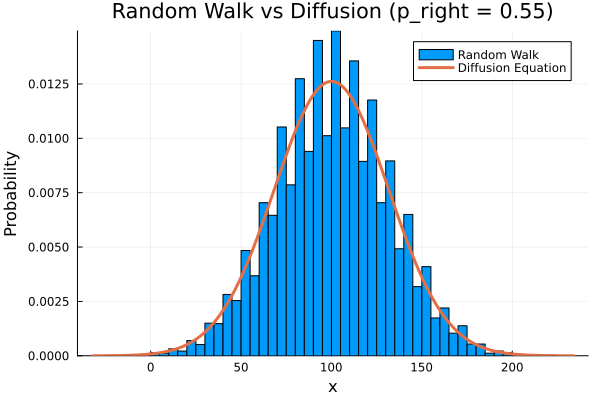
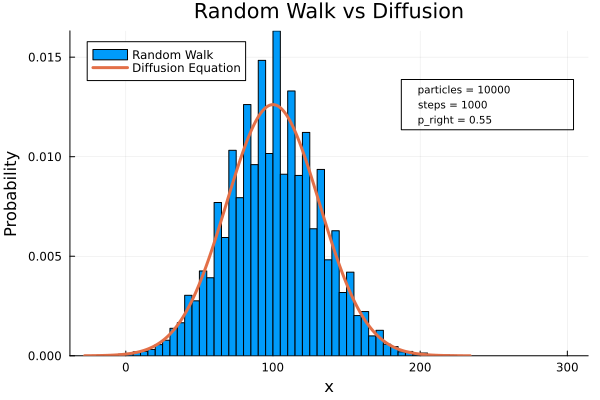
Update project files

Changed region(s): [[0.03, 0.0, 0.96, 0.93], [0.66, 0.09, 0.96, 0.33], [0.54, 0.96, 0.57, 0.99]]

diff --git a/README.md b/README.md
@@ -224,7 +224,7 @@ u (x, t) = \frac{1}{\sqrt{4 \pi D t}} \exp \Big( - \frac{(x - v t)^2}{4 D t} \Bi
 julia> using random_walk
 ```
 
-以下のコードは基本的には省略可だが、環境（WSL等）に応じて描画が上手くいかない場合のおまじない（描画バックエンドをGUIを使わないものに変更している）：
+以下のコードは基本的には省略可だが、環境（WSL等）に応じて描画が上手くいかない場合のおまじない（描画バックエンドをGUIを使わないものに変更している、今回はrandom_walk.jlの中で宣言しておいた）：
 ```julia
 julia> using Plots
 julia> gr()
@@ -233,8 +233,8 @@ julia> ENV["GKSwstype"] = "100"  # オフスクリーン描画
 
 最後に以下のコードを実行することで、シミュレーションとグラフによる比較ができる：
 ```julia
-julia> positions, p_right = simulate_rw(10000, 1000; p_right=0.55)  # 右に偏る確率が0.55のランダムウォーク
-julia> file = random_walk.plot_rw_vs_diffusion_save(positions, 1000, p_right; filename="rw_vs_diff.png") # 熱拡散方程式の解との比較を表したグラフ
+julia> positions, n_particles, n_steps, p_right = simulate_rw(10000, 1000; p_right=0.55)  # 粒子数10000、1000ステップ、右に偏る確率が0.55のランダムウォーク
+julia> file = random_walk.plot_rw_vs_diffusion_save(positions, n_steps, p_right, n_particles; filename="rw_vs_diff.png") # 熱拡散方程式の解との比較を表したグラフ
 
 julia> println("保存しました：", file)
 ```
